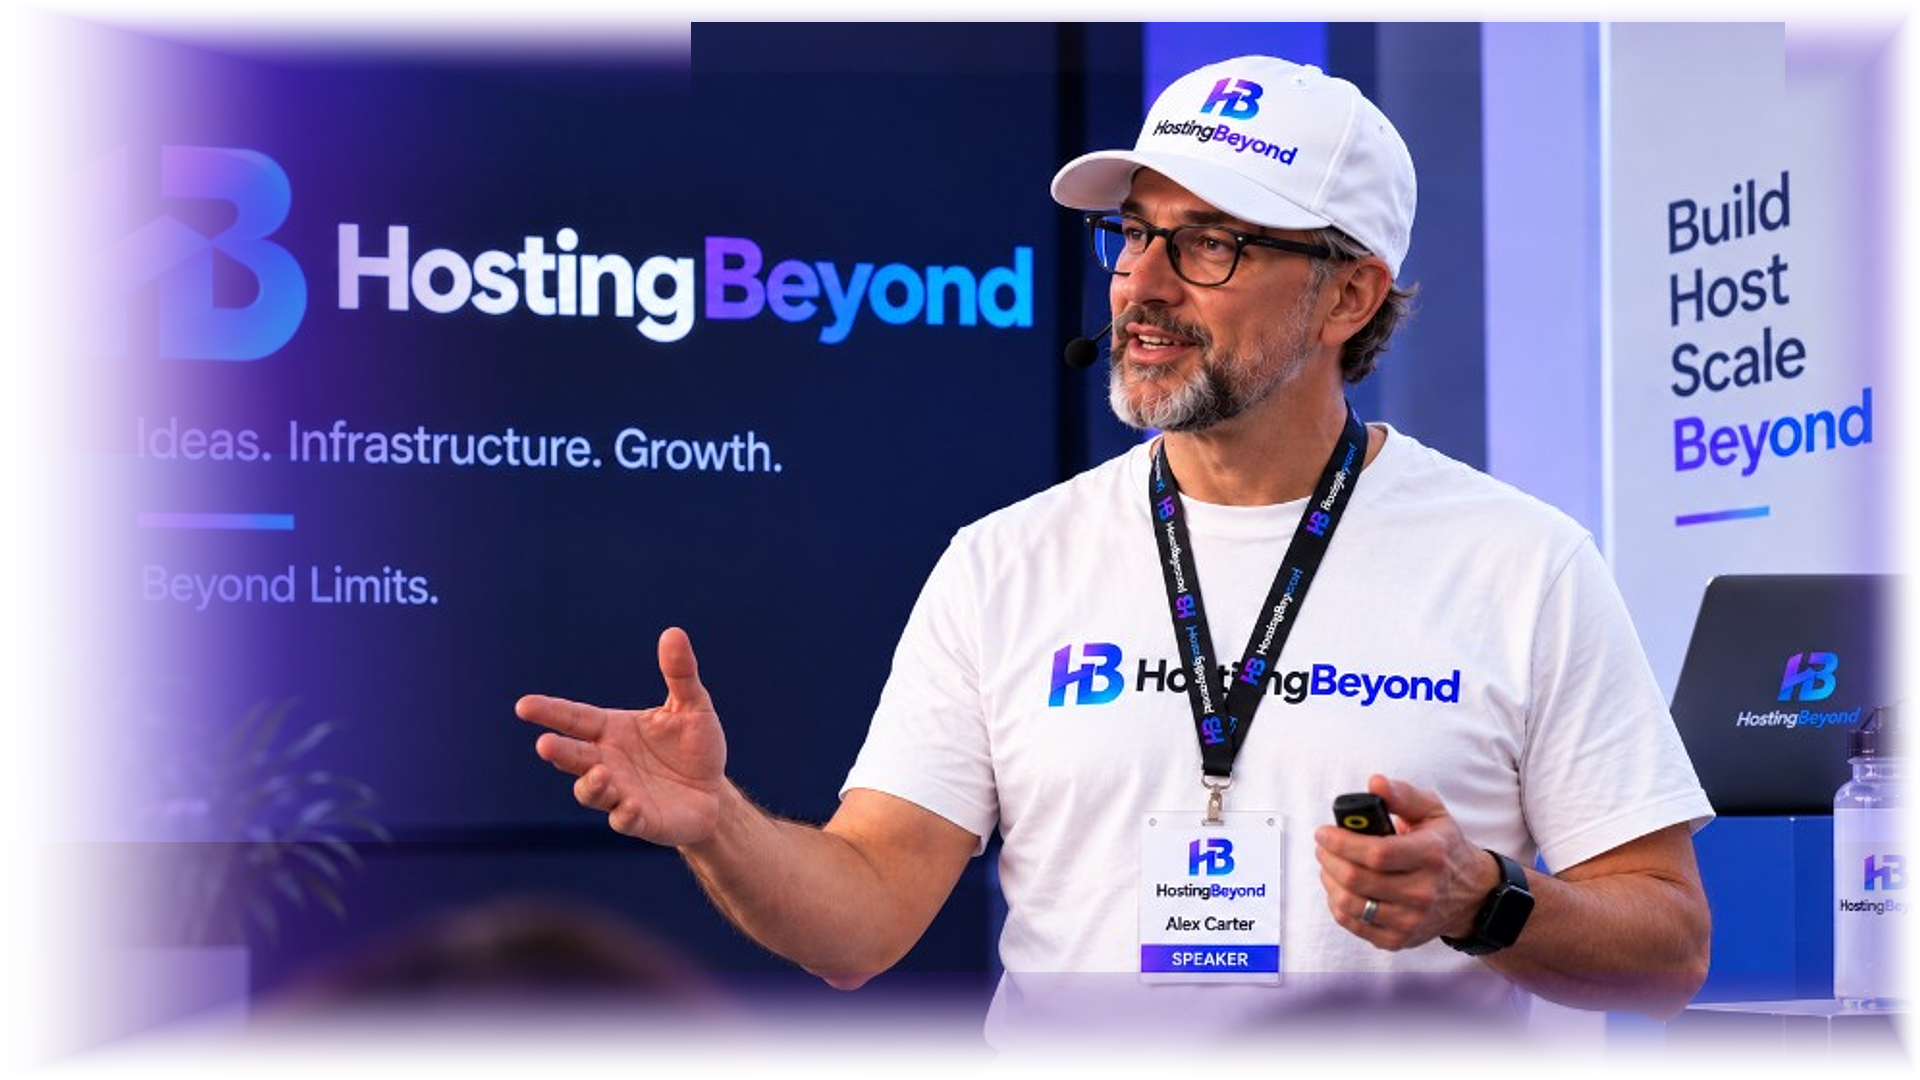
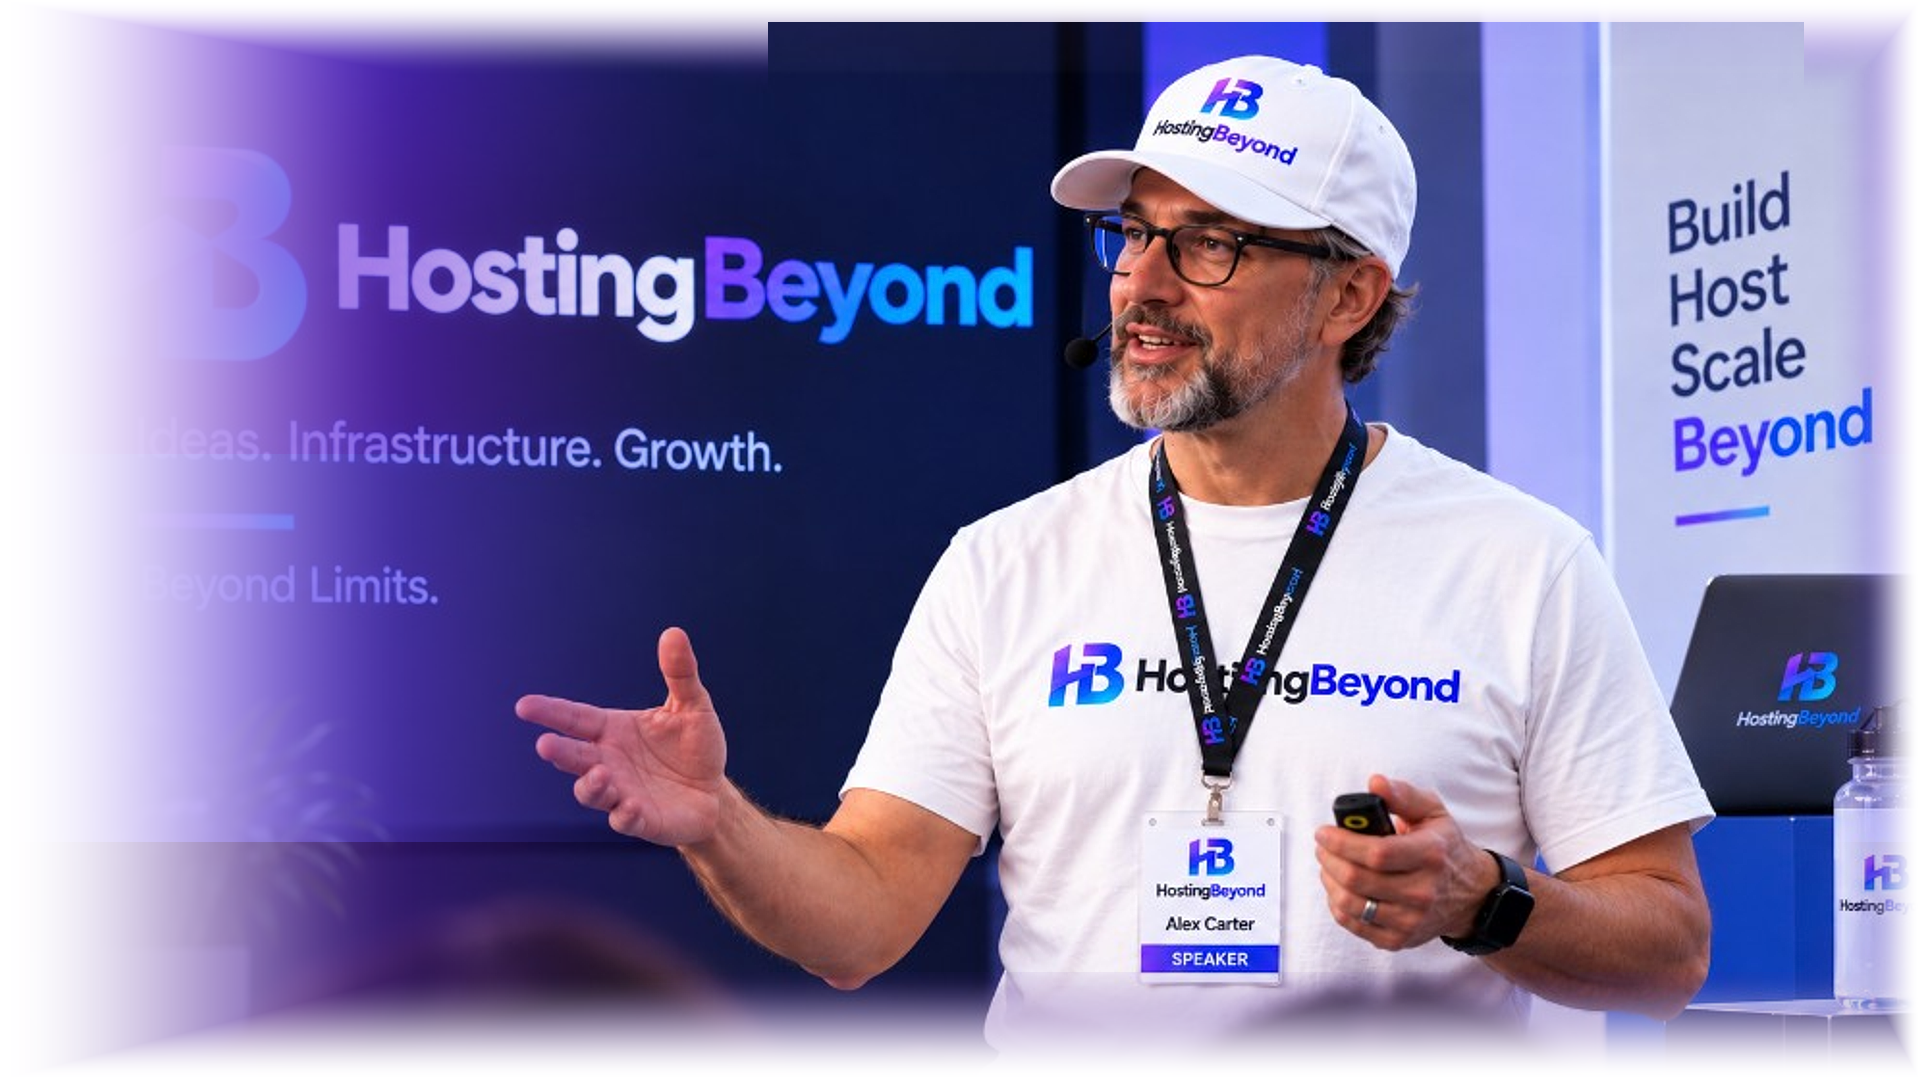
fix: fade the stage wall so hero copy stays readable
Keep the speaker sharp and dissolve more of the left backdrop into the theme purple.

Changed region(s): [[0.0312, 0.0306, 0.3438, 0.9778], [0.3438, 0.0, 0.4062, 0.0611]]

diff --git a/components/home/hero.tsx b/components/home/hero.tsx
@@ -31,7 +31,7 @@ function SceneImage({ src, className }: { src?: string; className?: string }) {
       priority
       unoptimized
       sizes="100vw"
-      className={cn("object-cover object-[68%_38%]", className)}
+      className={cn("object-cover object-[64%_36%]", className)}
     />
   );
 }
@@ -137,7 +137,7 @@ export function HeroSection({ content }: { content?: CmsHeroContent }) {
           initial={reduceMotion ? false : { opacity: 0 }}
           animate={{ opacity: 1 }}
           transition={{ duration: 0.55 }}
-          className="absolute inset-y-0 right-0 left-[16%] xl:left-[12%]"
+          className="absolute inset-y-0 right-0 left-[28%] xl:left-[24%]"
         >
           <SceneImage src={sceneSrc} />
         </motion.div>
